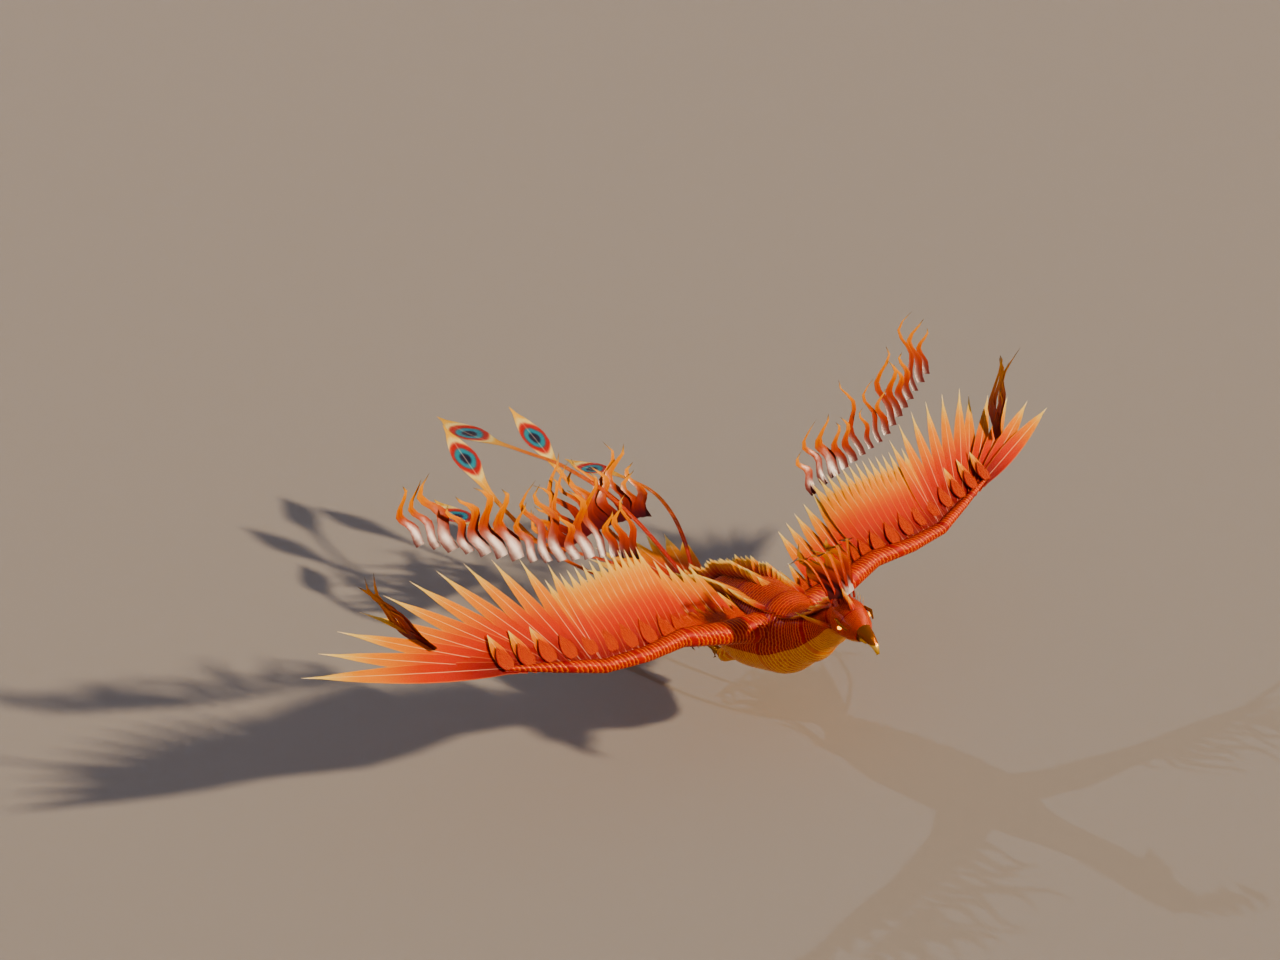
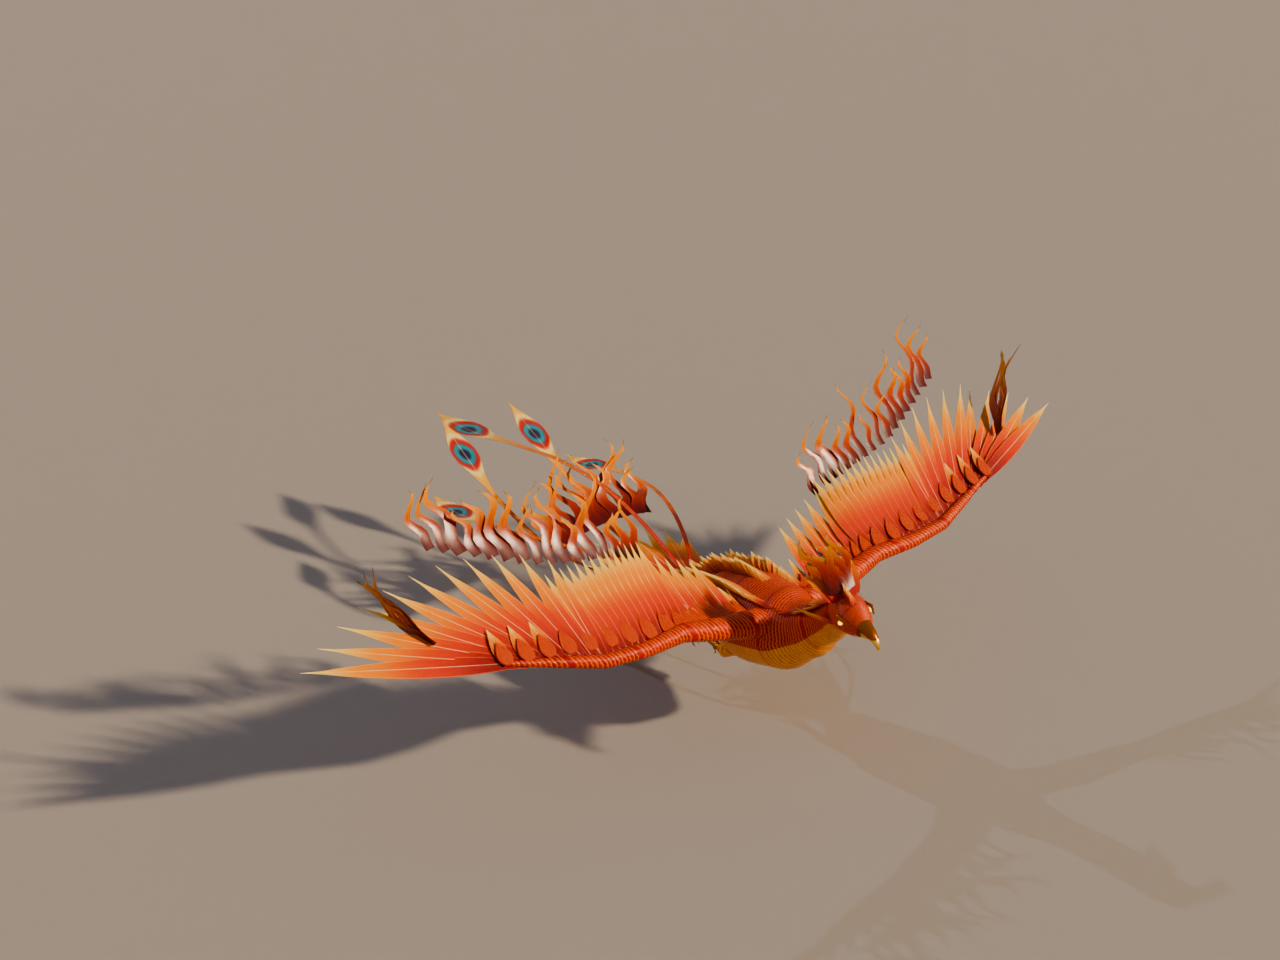
Phoenix fire bird: final renders, manifest, builder regen
Claude-Session: https://claude.ai/code/session_01D6CTS1e1CCSdQJyK2t2MGL

diff --git a/MANIFEST.md b/MANIFEST.md
@@ -198,7 +198,7 @@ Textures live in `textures/<Set>/HO_T_<Set>_{Color,Normal,Roughness,Metalness}.p
 | HO_Armor_Samurai | Mesh group | `assets/Phase4/Armour/HO_Armor_Samurai.fbx` | 1786 | 2.32 × 2.32 × 3.205 | Black_Lacquer, Cloth_Crimson, Gold_Leaf, Red_Lacquer | body-part centre | ✅ | Samurai set: red lacquer plates, black lames, crimson lacing, gold trim, kabuto with kuwagata horns. One mesh per R6 body part, each modelled in that part's local space (part centre = origin). Weld each MeshPart to its body part with the offset listed in roblox/HO_RigBuilder.lua (ARMOUR table) - HO_RigBuilder.EquipArmor(character, "Samurai") does it. | meshes: HO_Armor_Samurai_Torso__Black_Lacquer (232), HO_Armor_Samurai_Torso__Cloth_Crimson (180), HO_Armor_Samurai_Torso__Gold_Leaf (48), HO_Armor_Samurai_Torso__Red_Lacquer (360), HO_Armor_Samurai_RightArm__Black_Lacquer (48), HO_Armor_Samurai_RightArm__Cloth_Crimson (60), HO_Armor_Samurai_RightArm__Gold_Leaf (24), HO_Armor_Samurai_RightArm__Red_Lacquer (60), HO_Armor_Samurai_LeftArm__Black_Lacquer (48), HO_Armor_Samurai_LeftArm__Cloth_Crimson (60), HO_Armor_Samurai_LeftArm__Gold_Leaf (24), HO_Armor_Samurai_LeftArm__Red_Lacquer (60), HO_Armor_Samurai_RightLeg__Black_Lacquer (48), HO_Armor_Samurai_RightLeg__Gold_Leaf (12), HO_Armor_Samurai_RightLeg__Red_Lacquer (60), HO_Armor_Samurai_LeftLeg__Black_Lacquer (48), HO_Armor_Samurai_LeftLeg__Gold_Leaf (12), HO_Armor_Samurai_LeftLeg__Red_Lacquer (60), HO_Armor_Samurai_Helmet__Black_Lacquer (190), HO_Armor_Samurai_Helmet__Gold_Leaf (64), HO_Armor_Samurai_Helmet__Red_Lacquer (88) |
 | HO_Char_EarthGolem | Mesh group | `assets/Phase4/Characters/HO_Char_EarthGolem.fbx` | 3320 | 11.438 × 3.871 × 12.414 | Glow_Amber, Glow_Yellow, Stone_Granite | feet (ground) centre | ✅ | Earth Golem at rig scale 2.4 (about 12 studs tall): stacked granite blocks, boulder shoulders, huge block fists, glowing yellow eyes and amber chest cracks. Meshes are in character space (feet at y=0, HumanoidRootPart centre at y=7.2). HO_RigBuilder.BuildCharacter(model, "HO_Char_EarthGolem") adds a HumanoidRootPart, invisible R6 body parts with Motor6Ds (classic R6 C0/C1 x scale) and welds the meshes on, so the Phase 2 KeyframeSequences (Golem_* / Hollow_*) play directly. | meshes: HO_Char_EarthGolem_Torso (480), HO_Char_EarthGolem_Torso_Glow (48), HO_Char_EarthGolem_Head (320), HO_Char_EarthGolem_Head_Glow (72), HO_Char_EarthGolem_RightArm (880), HO_Char_EarthGolem_LeftArm (880), HO_Char_EarthGolem_RightLeg (320), HO_Char_EarthGolem_LeftLeg (320) |
 | HO_Char_Hollow | Mesh group | `assets/Phase4/Characters/HO_Char_Hollow.fbx` | 3252 | 3.995 × 1.765 × 5.64 | Glow_Red, Shadow_Black | feet (ground) centre | ✅ | The Hollow (R6 size): black shadow body, glowing red slit-pupil eye in the chest with red cracks, swept horns, clawed hands, tattered shadow wisps. Meshes are in character space (feet at y=0, HumanoidRootPart centre at y=3). HO_RigBuilder.BuildCharacter(model, "HO_Char_Hollow") adds a HumanoidRootPart, invisible R6 body parts with Motor6Ds (classic R6 C0/C1 x scale) and welds the meshes on, so the Phase 2 KeyframeSequences (Golem_* / Hollow_*) play directly. | meshes: HO_Char_Hollow_Torso (836), HO_Char_Hollow_Torso_Glow (316), HO_Char_Hollow_Head (384), HO_Char_Hollow_Head_Glow (40), HO_Char_Hollow_RightArm (424), HO_Char_Hollow_RightArm_Glow (20), HO_Char_Hollow_LeftArm (424), HO_Char_Hollow_LeftArm_Glow (20), HO_Char_Hollow_RightLeg (394), HO_Char_Hollow_LeftLeg (394) |
-| HO_Creature_Phoenix | Skinned mesh group + armature | `assets/Phase4/Characters/HO_Creature_Phoenix.fbx` | 28996 | 57.51 × 44.57 × 16.59 | Fire_Flame, Glow_Amber, Phoenix_Beak, Phoenix_Body, Phoenix_Breast, Phoenix_Feather, Phoenix_Plume | centre of the body | ✅ | Rigged phoenix fire bird (wingspan ~58, length ~45 with tail plumes). Soaring bind pose: wings spread, faces FRONT (-Z), origin = centre of the body. Pieces: Head, Beak, Crest, Eyes, Neck, Body, Wings, Tail, Legs, Talons, FireFX (each split per texture set). Solid feathers (Phoenix_Body, Phoenix_Breast, Phoenix_Feather, Phoenix_Plume, Phoenix_Beak; eyes Glow_Amber -> Neon); FireFX = Fire_Flame (AlphaMode Transparency, glow). 26 bones: Root, Spine01-03, Neck01-02, Head, Beak, L/R_Wing1-3, Tail01-06, L/R_Thigh/Shin/Foot (max 4 weights). Import with File > Import 3D (Scale Unit = Stud, Rig Type = Custom). roblox/HO_PhoenixRig.lua animates it (wing flap / glide, tail sway, head, beak). |
+| HO_Creature_Phoenix | Skinned mesh group + armature | `assets/Phase4/Characters/HO_Creature_Phoenix.fbx` | 29028 | 57.51 × 44.57 × 15.95 | Fire_Flame, Glow_Amber, Phoenix_Beak, Phoenix_Body, Phoenix_Breast, Phoenix_Feather, Phoenix_Plume | centre of the body | ✅ | Rigged phoenix fire bird (wingspan ~58, length ~45 with tail plumes). Soaring bind pose: wings spread, faces FRONT (-Z), origin = centre of the body. Pieces: Head, Beak, Crest, Eyes, Neck, Body, Wings, Tail, Legs, Talons, FireFX (each split per texture set). Solid feathers (Phoenix_Body, Phoenix_Breast, Phoenix_Feather, Phoenix_Plume, Phoenix_Beak; eyes Glow_Amber -> Neon); FireFX = Fire_Flame (AlphaMode Transparency, glow). 26 bones: Root, Spine01-03, Neck01-02, Head, Beak, L/R_Wing1-3, Tail01-06, L/R_Thigh/Shin/Foot (max 4 weights). Import with File > Import 3D (Scale Unit = Stud, Rig Type = Custom). roblox/HO_PhoenixRig.lua animates it (wing flap / glide, tail sway, head, beak). |
 | HO_Creature_WaterDragon | Skinned mesh group + armature | `assets/Phase4/Characters/HO_Creature_WaterDragon.fbx` | 69232 | 32.87 × 85.97 × 18.68 | Dragon_Belly, Dragon_Claw, Dragon_Eye, Dragon_Fin, Dragon_Horn, Dragon_Scales, Water_Flame | ground between the front feet | ✅ | Rigged Eastern water dragon, the hero creature (~86 long, head at ~19 studs). Long straight bind pose, faces FRONT (-Z), feet on the ground at the origin. Pieces: Head, Jaw, Horns, Eyes, Whiskers, Mane, Neck, Body, Tail, Limbs, Claws, Fins, WaterFX (each split per texture set). Solid PBR creature (Dragon_Scales, Dragon_Belly, Dragon_Horn, Dragon_Fin, Dragon_Claw, Dragon_Eye = Neon); only WaterFX is translucent (Water_Flame, AlphaMode Transparency). 39 bones: Root, Spine01-04, Neck01-04, Head, Jaw, Tail01-16, FL/FR/RL/RR_Upper/_Lower/_Foot; skinned (max 4 weights). Import with File > Import 3D (Scale Unit = Stud, Rig General > Rig Type = Custom). roblox/HO_DragonRig.lua animates it (tail wave, breathing, neck sway, jaw). |
 | HO_Fish_Ayu | Mesh group | `assets/Phase4/Fish/HO_Fish_Ayu.fbx` | 2040 | 0.23 × 1.342 × 0.419 | Fish_Ayu, Fish_Eye, Fish_Fin | body centre | ✅ | Ayu (sweetfish), 1.1 long: olive back, silver flanks, yellow gill spot. Common river catch. Origin = centre of the body; head FRONT (-Z), back up. Fins use Fish_Fin* sets (colour map has alpha: SurfaceAppearance AlphaMode = Transparency). Eyes = Fish_Eye. | meshes: HO_Fish_Ayu__Fish_Ayu (1728), HO_Fish_Ayu__Fish_Eye (160), HO_Fish_Ayu__Fish_Fin (152) |
 | HO_Fish_Fugu | Mesh group | `assets/Phase4/Fish/HO_Fish_Fugu.fbx` | 2016 | 0.421 × 1.08 × 0.4 | Fish_Eye, Fish_Fin, Fish_Fugu | body centre | ✅ | Fugu (pufferfish), 0.9 long: round spotted body, dark blotch behind the fins, white belly, big eyes. Origin = centre of the body; head FRONT (-Z), back up. Fins use Fish_Fin* sets (colour map has alpha: SurfaceAppearance AlphaMode = Transparency). Eyes = Fish_Eye. | meshes: HO_Fish_Fugu__Fish_Eye (160), HO_Fish_Fugu__Fish_Fin (128), HO_Fish_Fugu__Fish_Fugu (1728) |
@@ -1222,7 +1222,7 @@ Every mesh object uses exactly ONE texture set: give its MeshPart one SurfaceApp
 | HO_Creature_Phoenix | `HO_Creature_Phoenix_Head__Phoenix_Feather` | Phoenix_Feather | 384 |
 | HO_Creature_Phoenix | `HO_Creature_Phoenix_Beak` | Phoenix_Beak | 56 |
 | HO_Creature_Phoenix | `HO_Creature_Phoenix_Crest__Phoenix_Feather` | Phoenix_Feather | 288 |
-| HO_Creature_Phoenix | `HO_Creature_Phoenix_Crest__Phoenix_Plume` | Phoenix_Plume | 640 |
+| HO_Creature_Phoenix | `HO_Creature_Phoenix_Crest__Phoenix_Plume` | Phoenix_Plume | 672 |
 | HO_Creature_Phoenix | `HO_Creature_Phoenix_Eyes` | Glow_Amber | 160 |
 | HO_Creature_Phoenix | `HO_Creature_Phoenix_Neck__Phoenix_Body` | Phoenix_Body | 1104 |
 | HO_Creature_Phoenix | `HO_Creature_Phoenix_Neck__Phoenix_Breast` | Phoenix_Breast | 736 |
